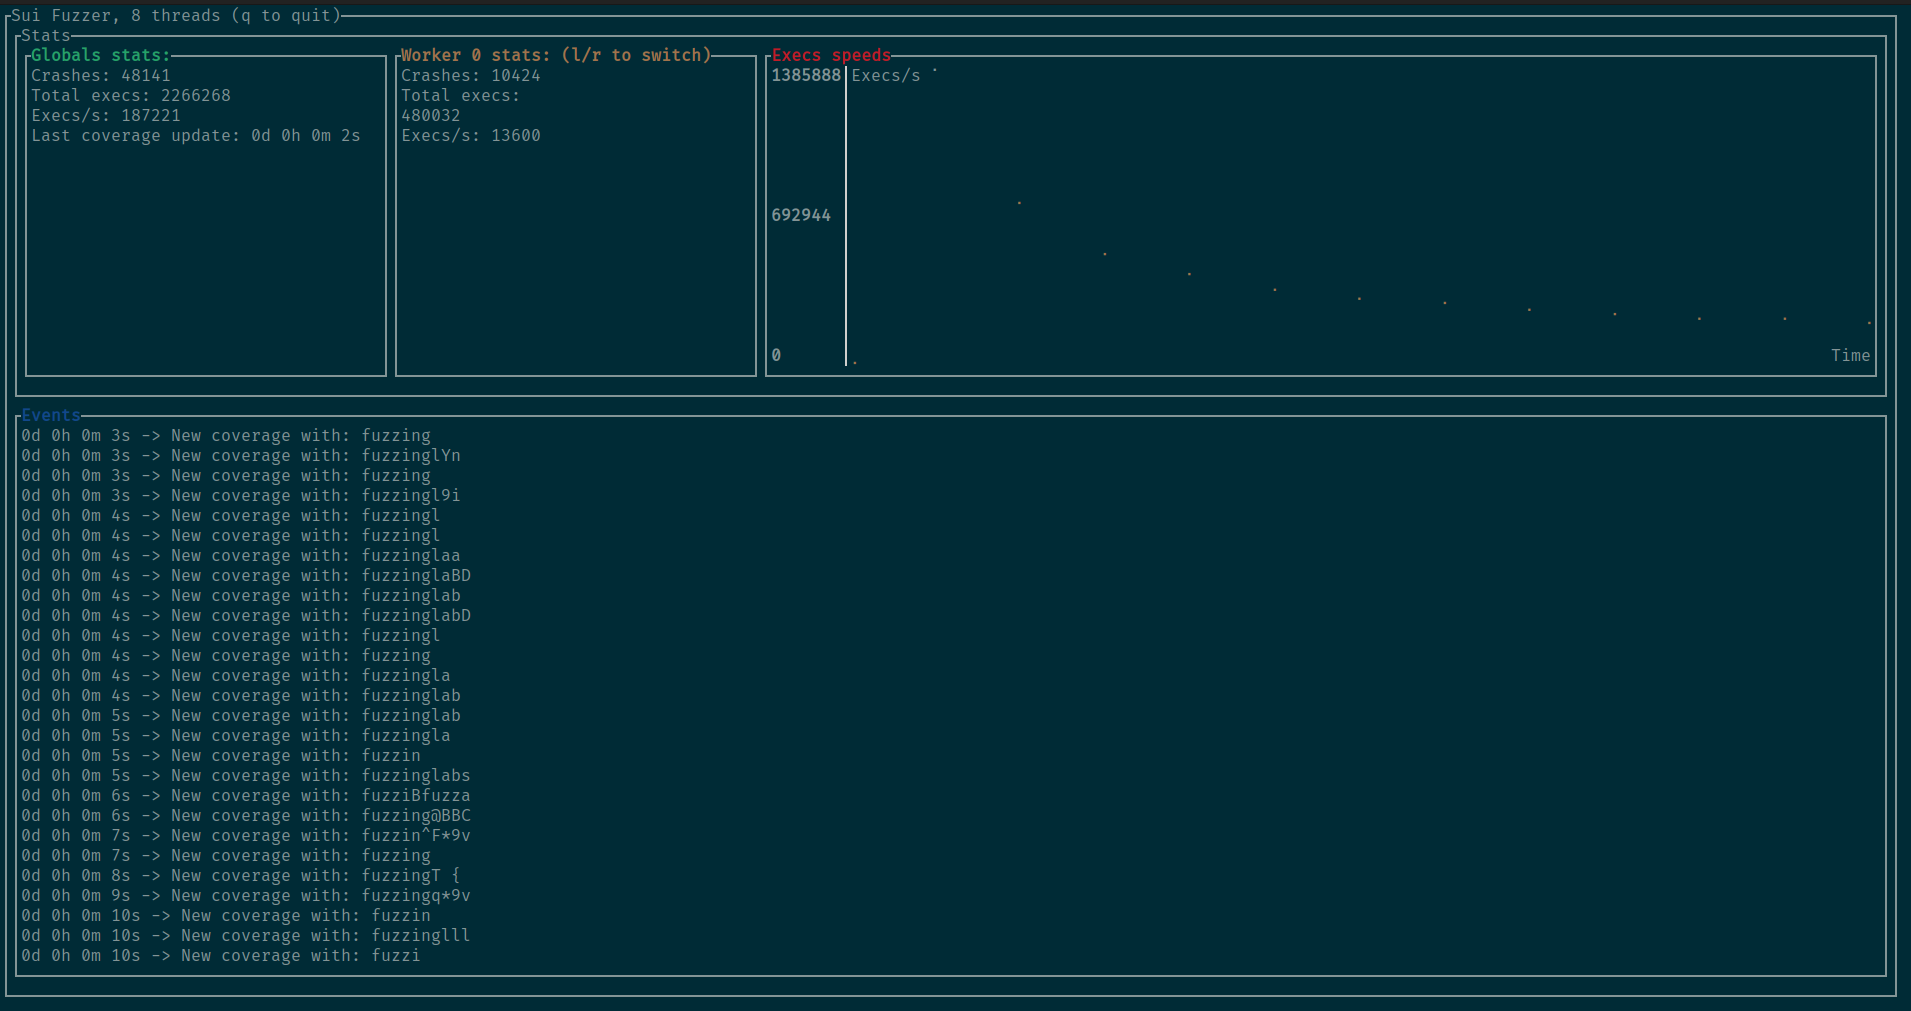
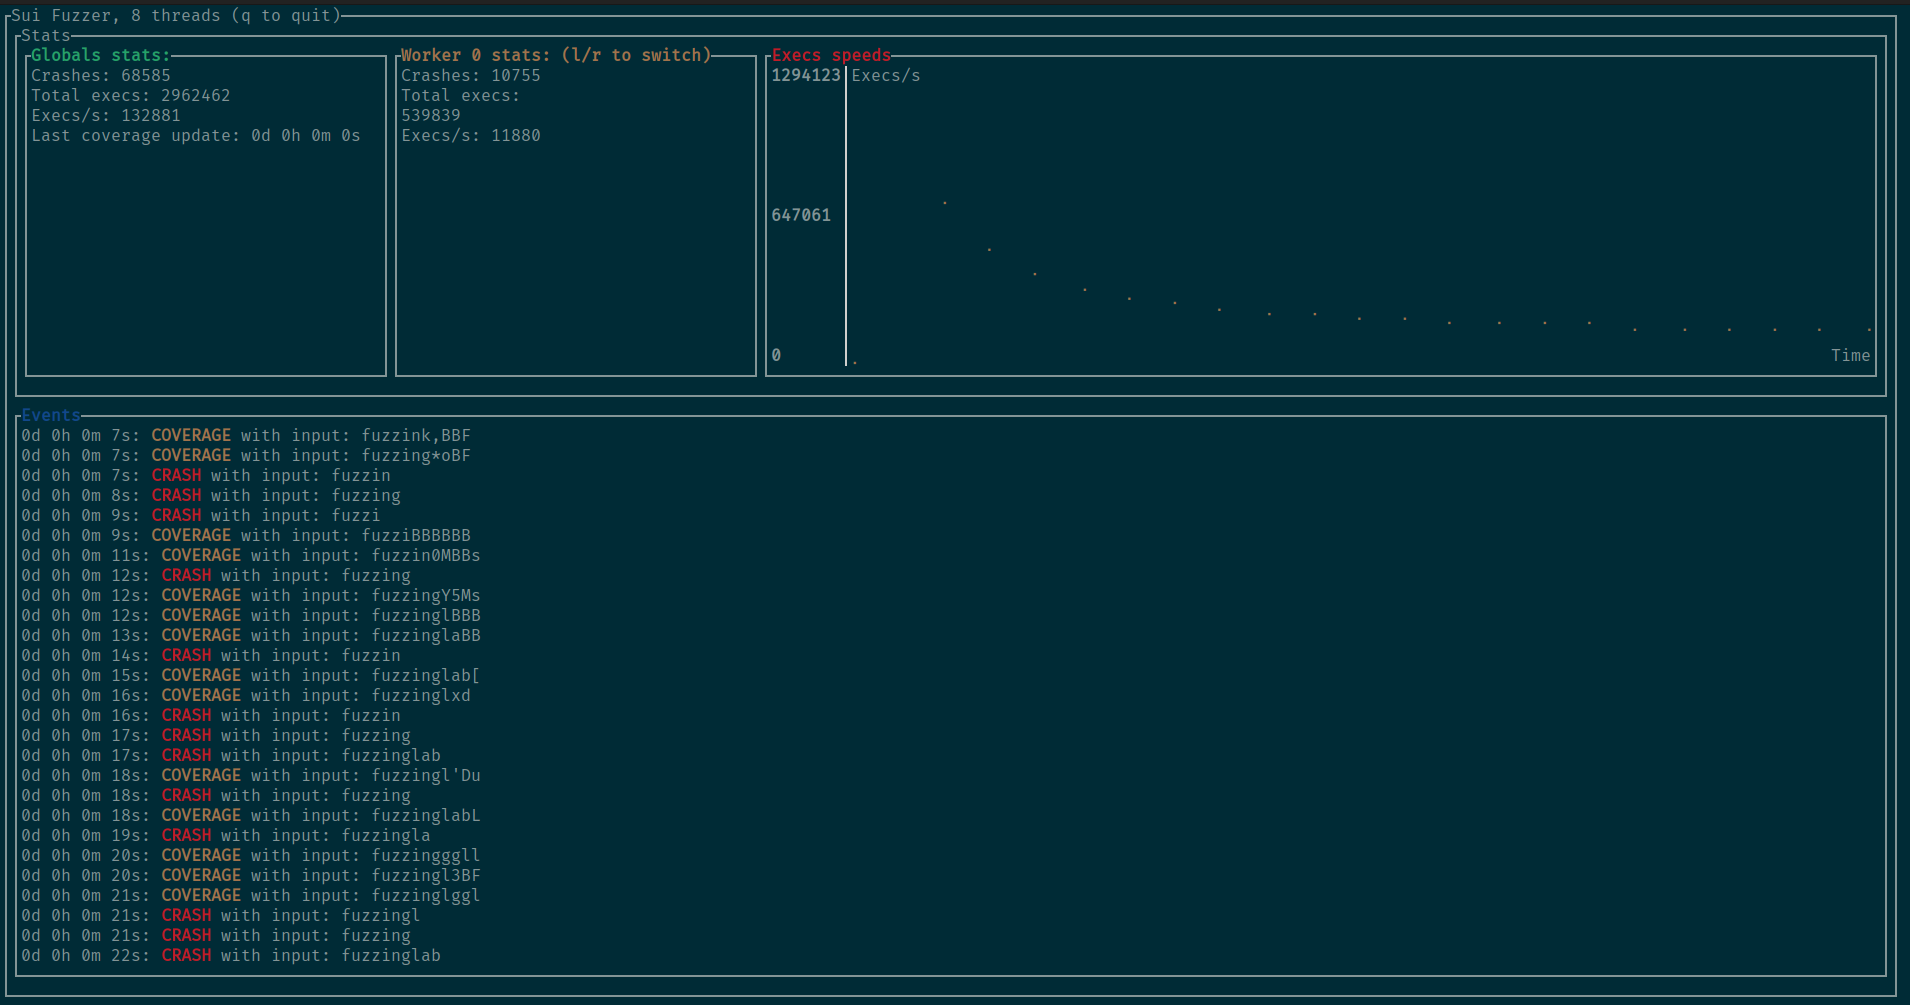
Better events

Changed region(s): [[0.0, 0.3393, 1.0, 1.0], [0.0309, 0.0308, 0.9885, 0.1542], [0.4016, 0.1851, 0.4325, 0.2159]]

diff --git a/src/ui/ui.rs b/src/ui/ui.rs
@@ -14,19 +14,25 @@ use crossterm::{
 
 use crate::fuzzer::stats::Stats;
 
+pub struct UiEventData {
+    pub time: time::Duration,
+    pub message: String
+}
+
+pub enum UiEvent {
+    NewCoverage(UiEventData),
+    NewCrash(UiEventData),
+}
+
 // Data to be displayed on the tui
 pub struct Ui {
-
     terminal: Terminal<CrosstermBackend<Stdout>>,
-
     // Infos (for new coverage, crashes...)
     nb_threads: u8,
-
     // Idx of displayed thread static
     threads_stats_idx: usize,
-
+    // Execs speeds history for graph
     execs_speeds: Vec<(f64, f64)>
-
 }
 
 impl Ui {
@@ -55,7 +61,7 @@ impl Ui {
         self.terminal.show_cursor().unwrap();
     }
 
-    pub fn render(&mut self, stats: &Stats, events: &VecDeque<String>, threads_stats: &Vec<Arc<RwLock<Stats>>>) -> bool {
+    pub fn render(&mut self, stats: &Stats, events: &VecDeque<UiEvent>, threads_stats: &Vec<Arc<RwLock<Stats>>>) -> bool {
         self.terminal.draw(|frame| {
             let chunks = Layout::default()
                 .constraints([Constraint::Percentage(40), Constraint::Percentage(60)].as_ref())
@@ -186,7 +192,7 @@ impl Ui {
         frame: &mut Frame<B>,
         area: Rect,
         _stats: &Stats,
-        events: &VecDeque<String>
+        events: &VecDeque<UiEvent>
         )
         where B: Backend {
             let chunks = Layout::default()
@@ -197,7 +203,43 @@ impl Ui {
 
             let events: Vec<ListItem> = events
                 .iter()
-                .map(|msg| ListItem::new(Span::raw(msg)))
+                .map(|event| {
+                    match event {
+                        UiEvent::NewCoverage(data) => {
+                            let style = Style::default().fg(Color::Yellow).add_modifier(Modifier::BOLD);
+                            ListItem::new(vec![Line::from(vec![
+                                                          Span::from(format!("{}d {}h {}m {}s",
+                                                                            data.time.whole_days(),
+                                                                            data.time.whole_hours(),
+                                                                            data.time.whole_minutes(),
+                                                                            data.time.whole_seconds(),
+                                                                            )),
+                                                          ": ".into(),
+                                                          Span::styled("COVERAGE", style),
+                                                          " with input: ".into(),
+                                                          data.message.clone().into()
+                            ]),
+                            ])
+                        },
+                        UiEvent::NewCrash(data) => {
+                            let style = Style::default().fg(Color::Red).add_modifier(Modifier::BOLD);
+                            ListItem::new(vec![Line::from(vec![
+                                                          Span::from(format!("{}d {}h {}m {}s",
+                                                                            data.time.whole_days(),
+                                                                            data.time.whole_hours(),
+                                                                            data.time.whole_minutes(),
+                                                                            data.time.whole_seconds(),
+                                                                            )),
+                                                          ": ".into(),
+                                                          Span::styled("CRASH", style),
+                                                          " with input: ".into(),
+                                                          data.message.clone().into()
+                            ]),
+                            ])
+                        },
+                    }
+                }
+            )
                 .collect();
             let events = List::new(events).start_corner(Corner::BottomLeft);
             frame.render_widget(events, chunks[0]);

diff --git a/src/fuzzer/fuzzer.rs b/src/fuzzer/fuzzer.rs
@@ -8,7 +8,7 @@ use time::Duration;
 use crate::fuzzer::stats::Stats;
 use crate::fuzzer::config::Config;
 use crate::worker::worker::{Worker, WorkerEvent};
-use crate::ui::ui::Ui;
+use crate::ui::ui::{Ui, UiEvent, UiEventData};
 
 // Sui specific imports
 use crate::runner::sui_runner::SuiRunner;
@@ -23,7 +23,6 @@ pub struct Fuzzer {
     channels: Vec<Channel<u8, WorkerEvent>>,
     // Global stats mostly for ui
     global_stats: Stats,
-
     // The user interface
     ui: Option<Ui>
 }
@@ -105,16 +104,27 @@ impl Fuzzer {
             // Check channels for new data
             for chan in &self.channels {
                 if let Ok(event) = chan.try_recv() {
+                    let duration = Duration::seconds(self.global_stats.time_running.try_into().unwrap());
                     match event {
                         WorkerEvent::NewCoverage(input) => {
-                            let duration = Duration::seconds(self.global_stats.time_running.try_into().unwrap());
                             self.global_stats.secs_since_last_cov = 0;
-                            events.push_front(String::from(format!("{}d {}h {}m {}s -> New coverage with: {}",
-                                                                   duration.whole_days(),
-                                                                   duration.whole_hours(),
-                                                                   duration.whole_minutes(),
-                                                                   duration.whole_seconds(),
-                                                                   String::from_utf8_lossy(&input))));
+                            events.push_front(
+                                UiEvent::NewCoverage(
+                                    UiEventData { 
+                                        time: duration,
+                                        message: String::from_utf8_lossy(&input).to_string()
+                                    }
+                                    ));
+                        },
+                        WorkerEvent::NewCrash(input) => {
+                            self.global_stats.secs_since_last_cov = 0;
+                            events.push_front(
+                                UiEvent::NewCrash(
+                                    UiEventData { 
+                                        time: duration,
+                                        message: String::from_utf8_lossy(&input).to_string()
+                                    }
+                                    ));
                         },
                     }
                 }

diff --git a/src/worker/worker.rs b/src/worker/worker.rs
@@ -10,6 +10,7 @@ use crate::fuzzer::coverage::Coverage;
 
 pub enum WorkerEvent {
     NewCoverage(Vec<u8>),
+    NewCrash(Vec<u8>),
 }
 
 pub struct Worker {
@@ -78,10 +79,9 @@ impl Worker {
                 },
                 Err((coverage, _msg)) => {
                     if !coverage.data.is_empty() && !coverage.input.is_empty() && !self.coverage_set.contains(&coverage) {
-                        eprintln!("NEW COV {:?}\nERR {:?}", coverage, _msg);
                         self.stats.write().unwrap().secs_since_last_cov = 0;
                         self.coverage_set.insert(coverage);
-                        self.channel.send(WorkerEvent::NewCoverage(input.clone())).unwrap();
+                        self.channel.send(WorkerEvent::NewCrash(input.clone())).unwrap();
                     }
                     self.stats.write().unwrap().crashes += 1;
                 }

diff --git a/README.md b/README.md
@@ -4,6 +4,10 @@ Fuzzer for SuiMove smartcontracts.
 
 ![screenshot](./imgs/screenshot1.png)
 
+## Usage
+
+To run the fuzzer just use:
+
 ```bash
 $ make
 ```
